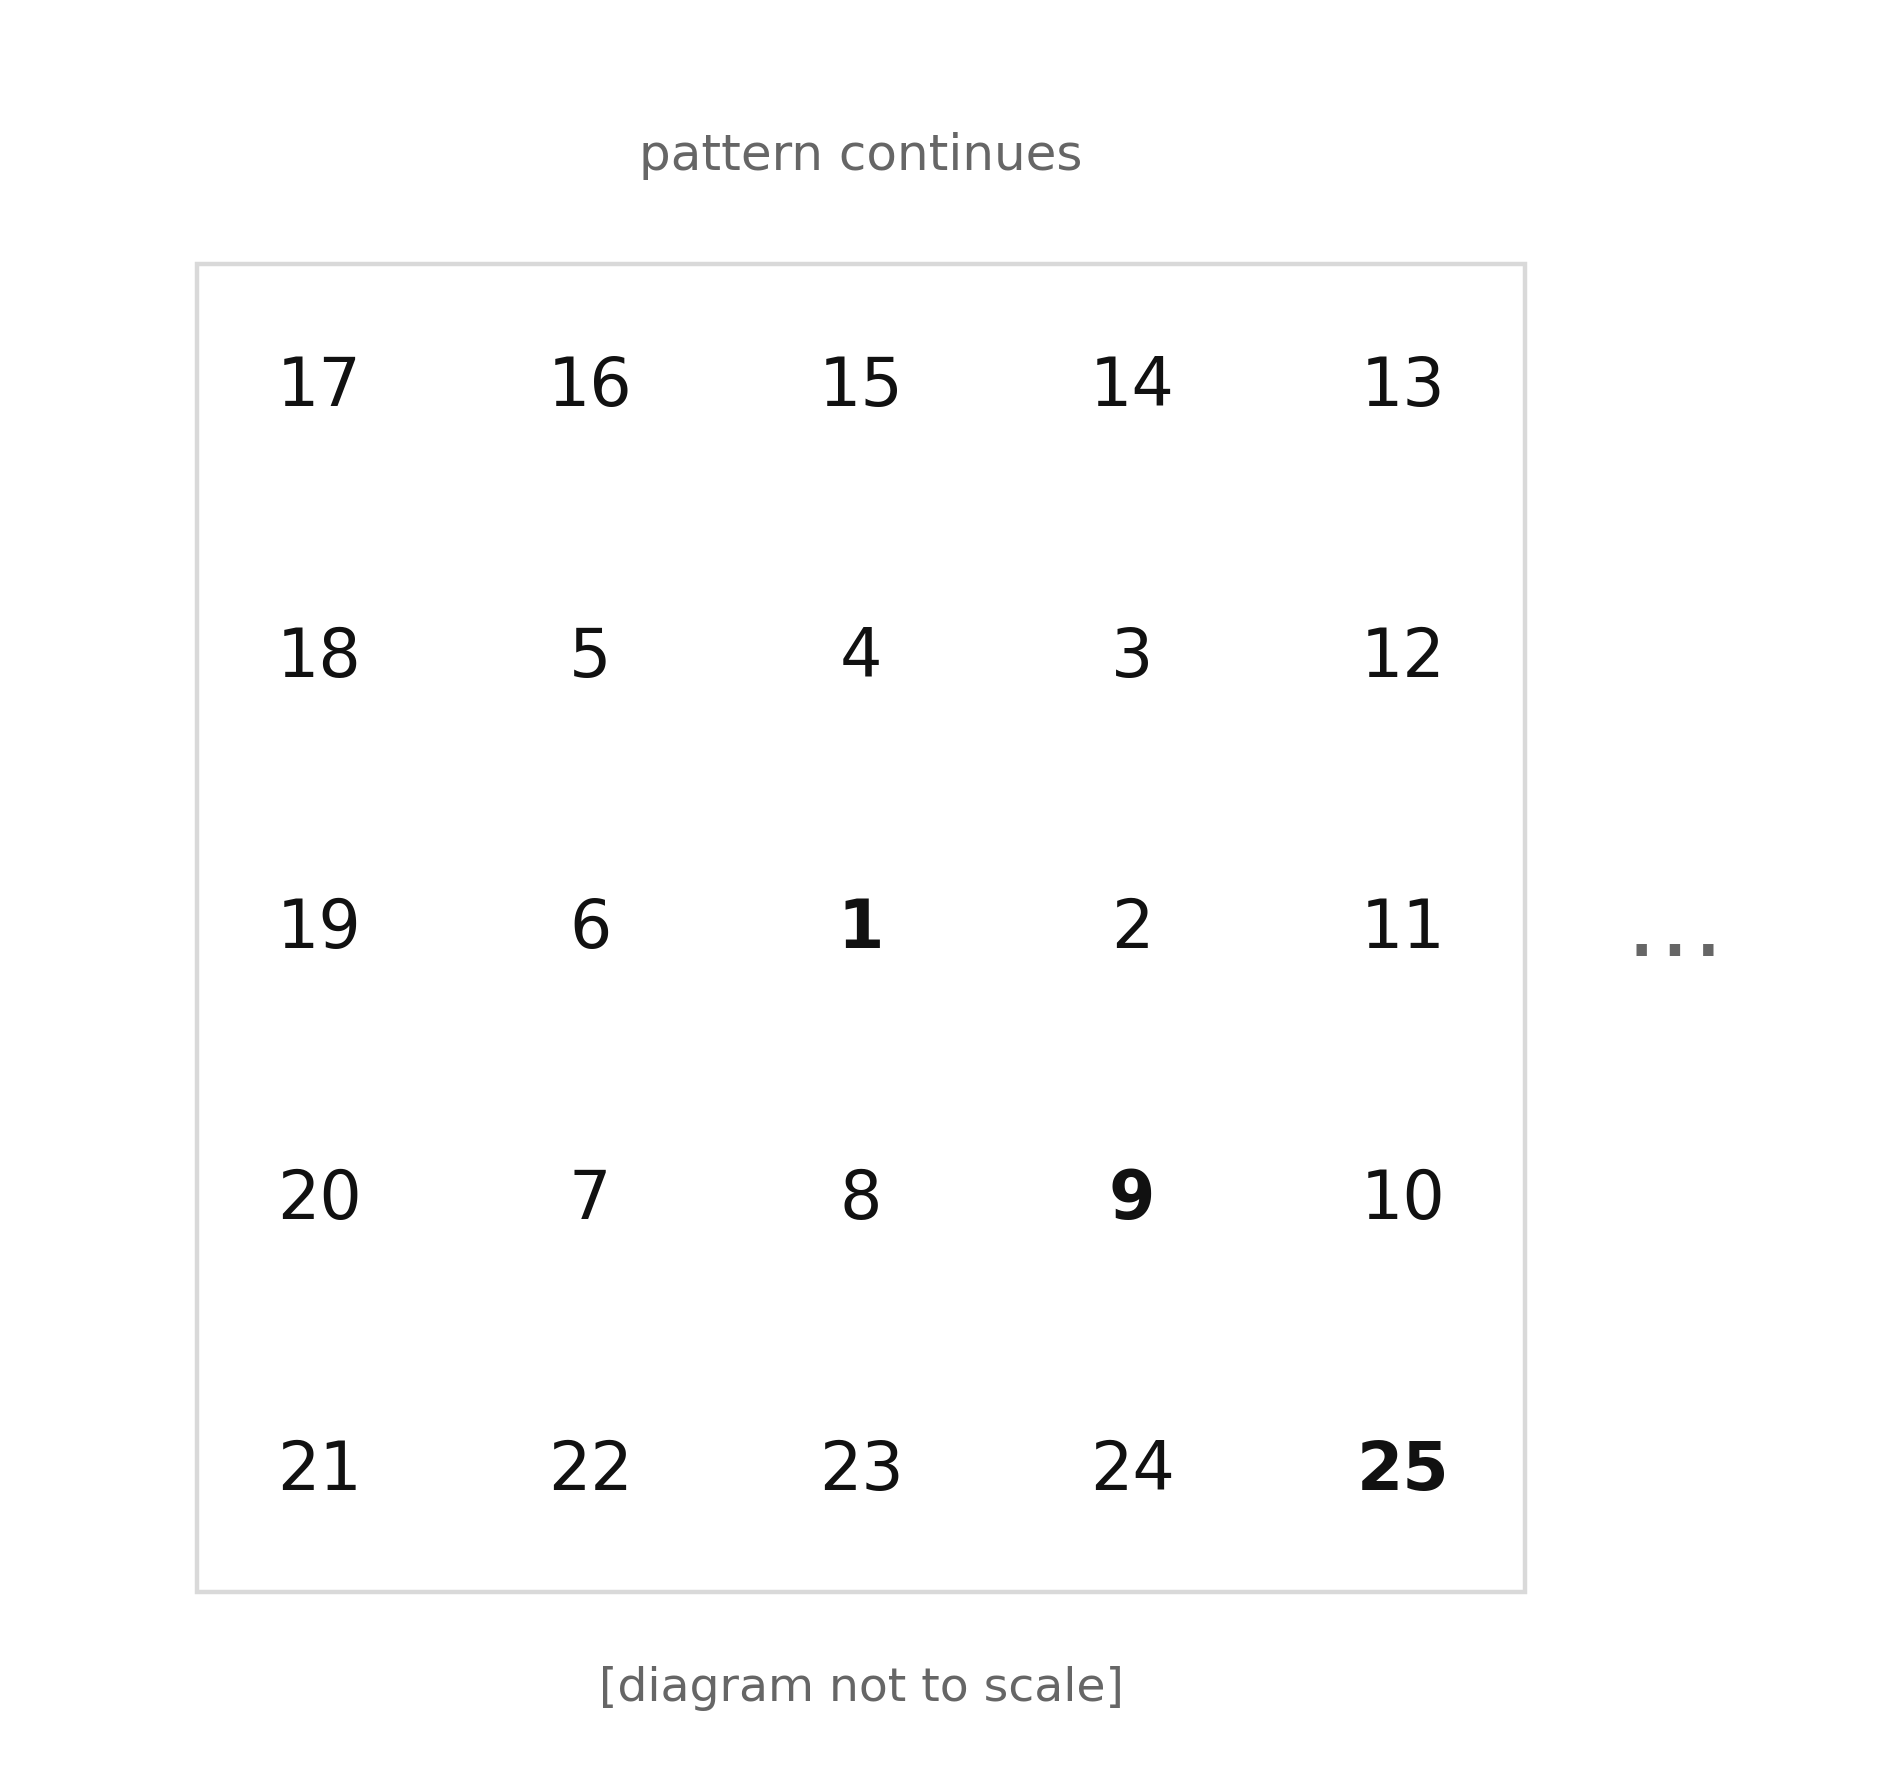
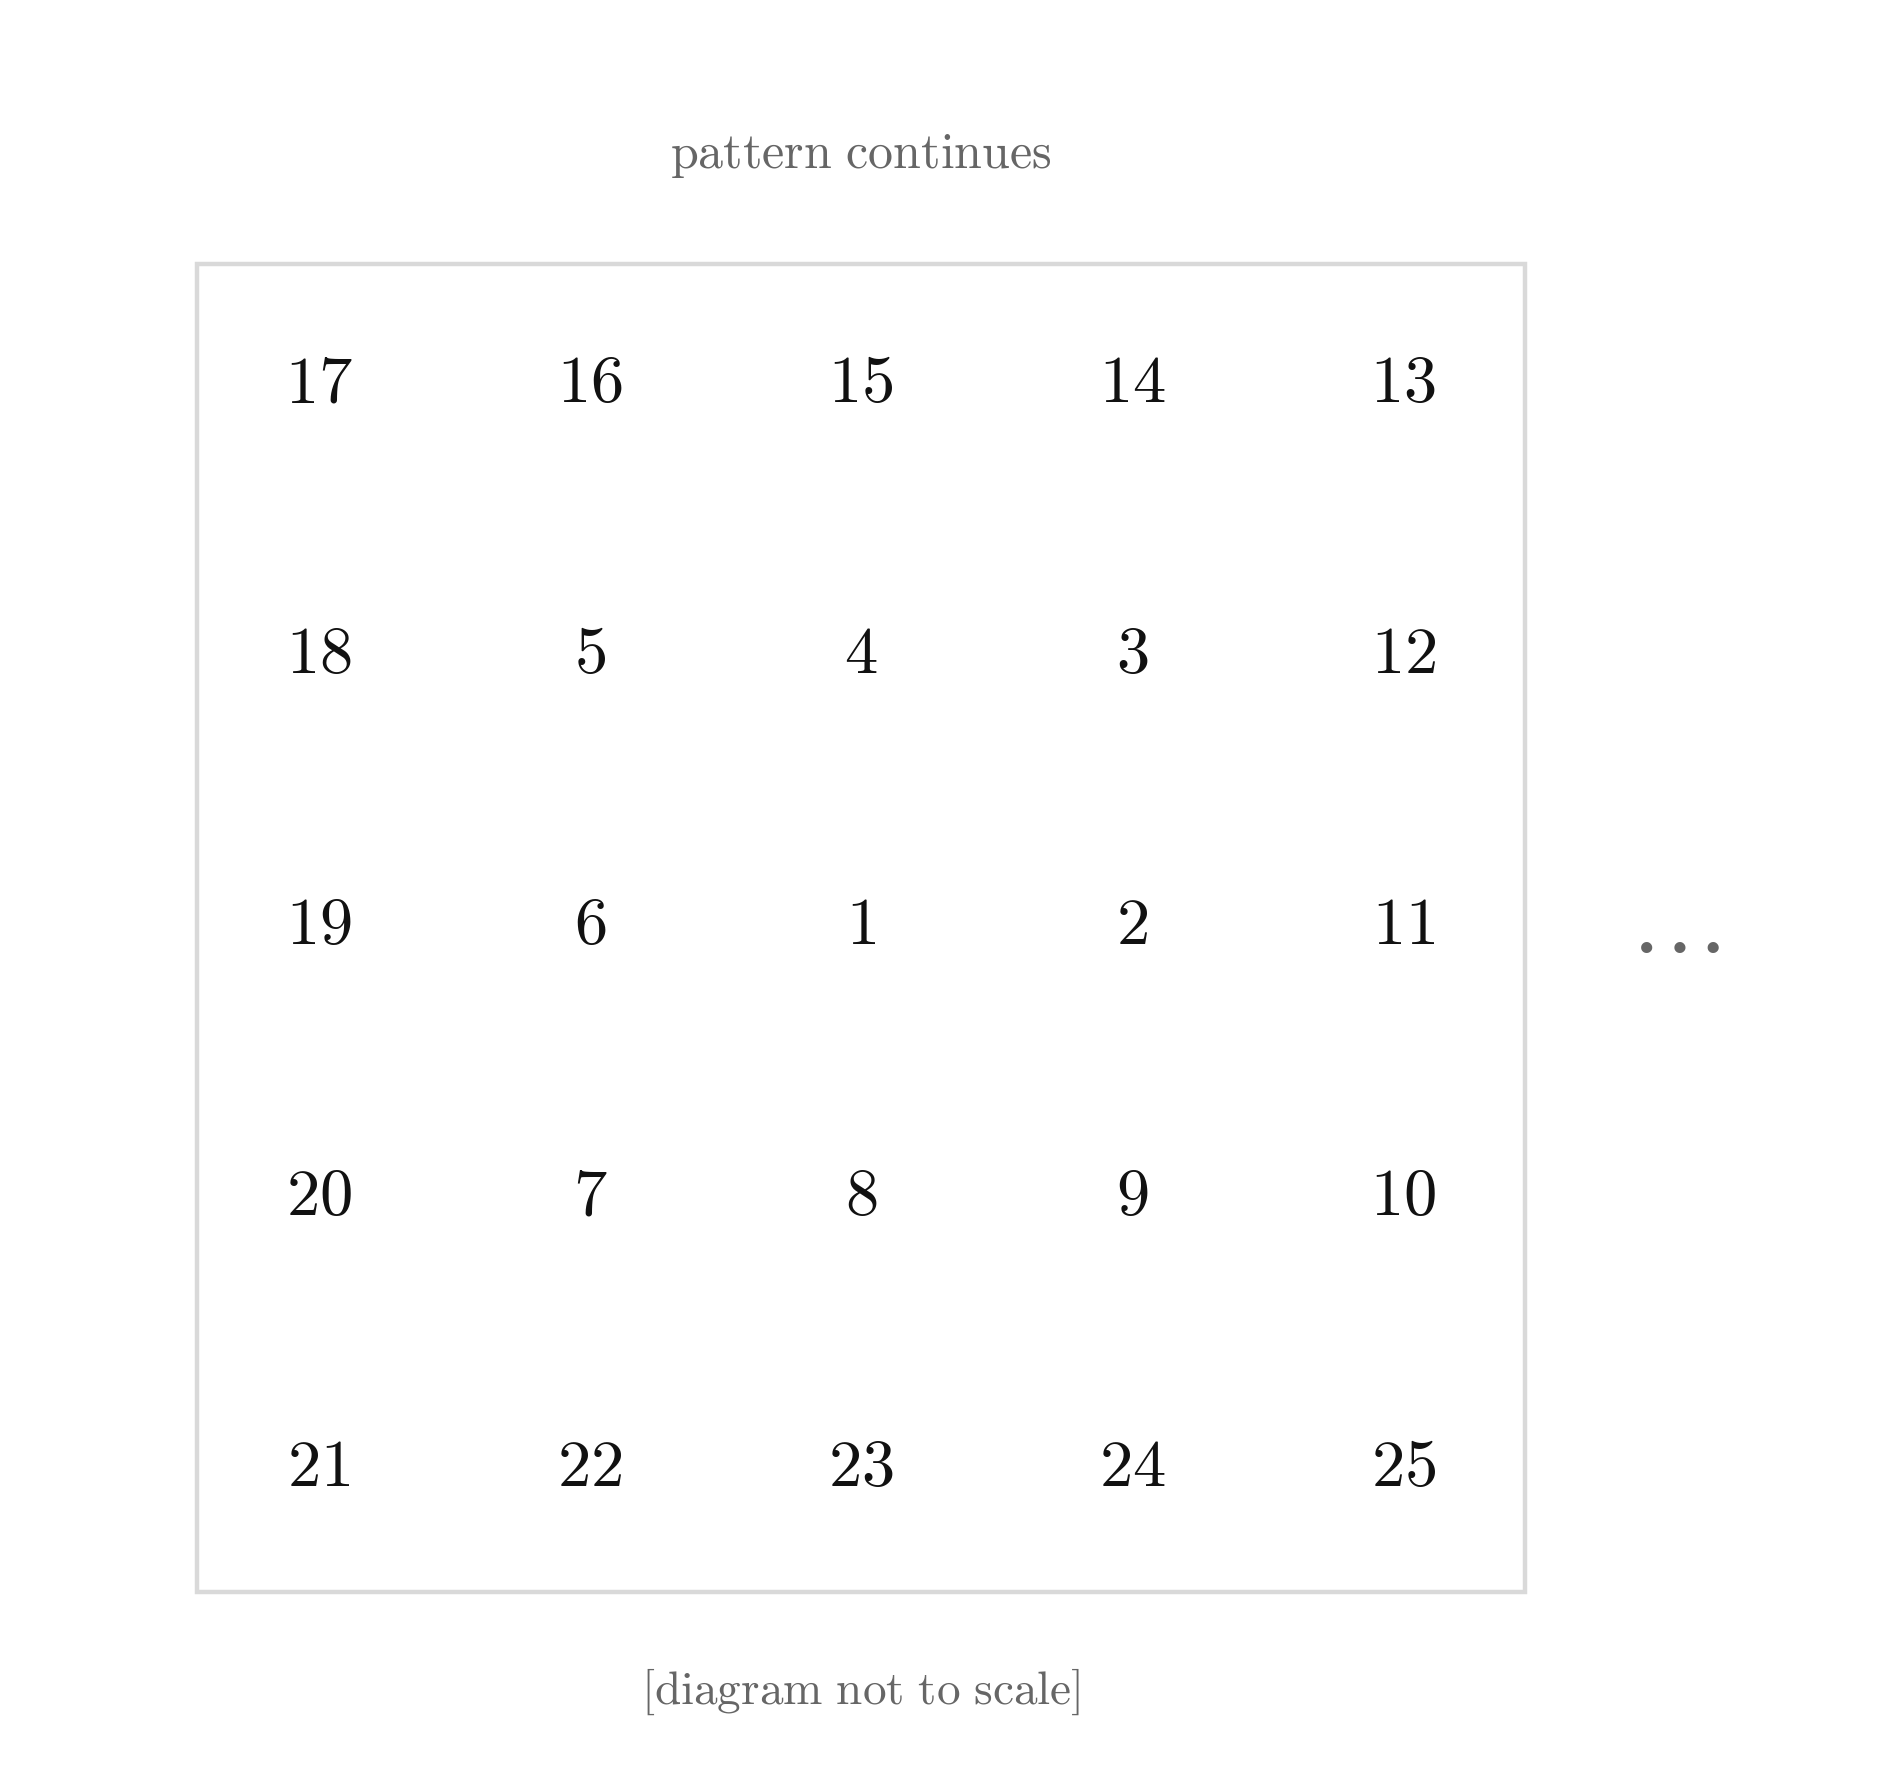
Tighten Math 1 calibration diagram typography and Q5 labels.
Use Computer Modern mathtext to match KaTeX, give Q1 more space under the figure, and remove the redundant ratio labels from Q5.

diff --git a/math1-calibration-final/render_reference_diagrams.py b/math1-calibration-final/render_reference_diagrams.py
@@ -20,9 +20,13 @@ LIGHT = "#D9D9D9"
 DARK = "#858585"
 LW = 1.55
 
+# Match site KaTeX / MathJax look: Computer Modern via matplotlib mathtext.
 plt.rcParams.update(
     {
-        "font.family": "DejaVu Sans",
+        "font.family": "serif",
+        "font.serif": ["STIXGeneral", "cmr10", "DejaVu Serif", "Times New Roman"],
+        "mathtext.fontset": "cm",
+        "mathtext.default": "it",
         "font.size": 11,
         "text.color": INK,
         "axes.edgecolor": INK,
@@ -40,8 +44,30 @@ def canvas(xlim, ylim, aspect="equal", figsize=(7.0, 4.5)):
     return fig, ax
 
 
+def math_label(ax, x, y, text, *, fontsize=11, color=INK, ha="center", va="center", rotation=0):
+    """Render a label in Computer Modern (KaTeX-style) mathtext."""
+    ax.text(
+        x,
+        y,
+        text,
+        ha=ha,
+        va=va,
+        fontsize=fontsize,
+        color=color,
+        rotation=rotation,
+    )
+
+
 def caption(ax, x, y):
-    ax.text(x, y, "[diagram not to scale]", ha="center", va="top", fontsize=8.5, color=MID)
+    ax.text(
+        x,
+        y,
+        r"$\mathrm{[diagram\ not\ to\ scale]}$",
+        ha="center",
+        va="top",
+        fontsize=8.5,
+        color=MID,
+    )
 
 
 def save(fig, filename):
@@ -51,7 +77,8 @@ def save(fig, filename):
 
 
 def q01():
-    fig, ax = canvas((-1.8, 13.8), (-1.6, 13.5))
+    # Extra bottom room so the not-to-scale caption sits clearly below "12 cm".
+    fig, ax = canvas((-1.8, 13.8), (-3.2, 13.5))
     outer = [(0, 0), (12, 0), (12, 12), (0, 12)]
     inner = [(6, 0), (12, 6), (6, 12), (0, 6)]
     ax.add_patch(Polygon(outer, closed=True, fill=False, ec=INK, lw=LW))
@@ -62,18 +89,19 @@ def q01():
         "E": (6, -0.45), "F": (12.35, 6), "G": (6, 12.35), "H": (-0.4, 6),
     }
     for label, (x, y) in labels.items():
-        ax.text(x, y, label, ha="center", va="center")
+        math_label(ax, x, y, rf"${label}$")
     y = -0.92
     ax.plot([0, 12], [y, y], color=MID, lw=1.0)
     ax.plot([0, 0], [y - 0.25, y + 0.25], color=MID, lw=1.0)
     ax.plot([12, 12], [y - 0.25, y + 0.25], color=MID, lw=1.0)
-    ax.text(6, y - 0.15, "12 cm", ha="center", va="top")
-    caption(ax, 6, -1.45)
+    math_label(ax, 6, y - 0.15, r"$12\,\mathrm{cm}$", va="top")
+    caption(ax, 6, -2.75)
     save(fig, "q01-midpoint-incircle.png")
 
 
 def q05():
-    fig, ax = canvas((-0.35, 1.4), (-0.32, 1.28), figsize=(6.1, 5.2))
+    # Keep letter labels only; ratios live in the stem, not on the figure.
+    fig, ax = canvas((-0.35, 1.4), (-0.38, 1.28), figsize=(6.1, 5.2))
     A, B, C, D = (0, 0), (1, 0), (1, 1), (0, 1)
     P, Q, R = (1 / 3, 0), (1, 1 / 4), (1 / 2, 1)
     ax.add_patch(Rectangle(A, 1, 1, fill=False, ec=INK, lw=LW))
@@ -82,12 +110,8 @@ def q05():
         ("A", A, -0.08, -0.08), ("B", B, 0.08, -0.08), ("C", C, 0.08, 0.08),
         ("D", D, -0.08, 0.08), ("P", P, 0, -0.09), ("Q", Q, 0.09, 0), ("R", R, 0, 0.09),
     ]:
-        ax.text(x + dx, y + dy, label, ha="center", va="center")
-    ax.text(0.16, -0.18, "1 : 2", ha="center", va="center", fontsize=9)
-    ax.text(1.18, 0.12, "1 : 3", ha="center", va="center", rotation=90, fontsize=9)
-    ax.text(0.75, 1.17, "1 : 1", ha="center", va="center", fontsize=9)
-    ax.text(-0.18, 0.5, "1", rotation=90, ha="center", va="center")
-    caption(ax, 0.5, -0.27)
+        math_label(ax, x + dx, y + dy, rf"${label}$")
+    caption(ax, 0.5, -0.32)
     save(fig, "q05-square-points.png")
 
 
@@ -122,11 +146,13 @@ def q07():
     fig, ax = canvas((-3.0, 3.6), (-3.0, 3.25), figsize=(6.0, 5.5))
     positions = spiral_positions(25)
     for n, (x, y) in positions.items():
-        weight = "bold" if n in {1, 9, 25} else "normal"
-        ax.text(x, y, str(n), ha="center", va="center", fontsize=12, fontweight=weight)
+        if n in {1, 9, 25}:
+            math_label(ax, x, y, rf"$\mathbf{{{n}}}$", fontsize=12)
+        else:
+            math_label(ax, x, y, rf"$\mathrm{{{n}}}$", fontsize=12)
     ax.add_patch(Rectangle((-2.45, -2.45), 4.9, 4.9, fill=False, ec=LIGHT, lw=0.8))
-    ax.text(3.0, 0, "…", ha="center", va="center", fontsize=18, color=MID)
-    ax.text(0, 2.85, "pattern continues", ha="center", va="center", fontsize=9, color=MID)
+    math_label(ax, 3.0, 0, r"$\ldots$", fontsize=18, color=MID)
+    math_label(ax, 0, 2.85, r"$\mathrm{pattern\ continues}$", fontsize=9, color=MID)
     caption(ax, 0, -2.72)
     save(fig, "q07-number-spiral.png")
 
@@ -146,12 +172,12 @@ def q09():
     for label, pt, offset in [
         ("A", A, (-0.08, -0.13)), ("B", B, (0.09, 0.03)), ("C", C, (-0.08, 0.08)), ("T", T, (0.08, -0.12))
     ]:
-        ax.text(pt[0] + offset[0], pt[1] + offset[1], label, ha="center", va="center")
+        math_label(ax, pt[0] + offset[0], pt[1] + offset[1], rf"${label}$")
     # Matching length ticks on AB and AT.
     ax.plot([0.47, 0.51], [0.36, 0.29], color=INK, lw=LW)
     ax.plot([0.50, 0.50], [-0.045, 0.045], color=INK, lw=LW)
     ax.add_patch(Arc(T, 0.46, 0.46, angle=0, theta1=110, theta2=180, color=MID, lw=1.1))
-    ax.text(0.79, 0.18, "70°", fontsize=10)
+    math_label(ax, 0.79, 0.18, r"$70^\circ$", fontsize=10)
     caption(ax, 0.25, -0.31)
     save(fig, "q09-circle-tangent.png")
 
@@ -177,38 +203,38 @@ def q10():
     large = (5.6, 2.5)
     draw_gear(ax, small, 1.35, 18)
     draw_gear(ax, large, 2.25, 30)
-    ax.text(2.0, 2.5, "18", ha="center", va="center", fontsize=12)
-    ax.text(5.6, 2.5, "30", ha="center", va="center", fontsize=12)
-    ax.text(2.0, 0.75, "18 teeth", ha="center", va="top")
-    ax.text(5.6, -0.05, "30 teeth", ha="center", va="top")
+    math_label(ax, 2.0, 2.5, r"$\mathrm{18}$", fontsize=12)
+    math_label(ax, 5.6, 2.5, r"$\mathrm{30}$", fontsize=12)
+    math_label(ax, 2.0, 0.75, r"$\mathrm{18\ teeth}$", va="top")
+    math_label(ax, 5.6, -0.05, r"$\mathrm{30\ teeth}$", va="top")
     arrow = FancyArrowPatch(
         (1.1, 3.55), (2.85, 3.65), connectionstyle="arc3,rad=-0.45", arrowstyle="-|>",
         mutation_scale=12, color=MID, lw=1.2
     )
     ax.add_patch(arrow)
-    ax.text(1.9, 4.65, "25 revolutions in 12 s", ha="center", va="center", fontsize=10)
+    math_label(ax, 1.9, 4.65, r"$\mathrm{25\ revolutions\ in\ 12\ s}$", fontsize=10)
     caption(ax, 4.2, -0.52)
     save(fig, "q10-gears.png")
 
 
 def token(ax, x, y, label):
     ax.add_patch(Circle((x, y), 0.35, fc="white", ec=INK, lw=1.2))
-    ax.text(x, y, label, ha="center", va="center", fontweight="bold", fontsize=10)
+    math_label(ax, x, y, rf"$\mathrm{{{label}}}$", fontsize=10)
 
 
 def q11():
     fig, ax = canvas((-0.4, 10.6), (-0.8, 4.8), figsize=(7.4, 4.7))
     ax.add_patch(Rectangle((0.3, 0.4), 3.7, 2.8, fill=False, ec=INK, lw=LW))
     ax.add_patch(Rectangle((6.2, 0.4), 3.7, 2.8, fill=False, ec=INK, lw=LW))
-    ax.text(2.15, 3.55, "Bag A", ha="center", va="center")
-    ax.text(8.05, 3.55, "Bag B", ha="center", va="center")
+    math_label(ax, 2.15, 3.55, r"$\mathrm{Bag\ A}$")
+    math_label(ax, 8.05, 3.55, r"$\mathrm{Bag\ B}$")
     for x, label in zip((1.2, 2.15, 3.1), ("R", "R", "B")):
         token(ax, x, 1.75, label)
     for x, label in zip((7.1, 8.05, 9.0), ("R", "B", "B")):
         token(ax, x, 1.75, label)
     ax.add_patch(FancyArrowPatch((4.25, 2.3), (5.95, 2.3), arrowstyle="-|>", mutation_scale=13, color=INK, lw=1.2))
-    ax.text(5.1, 2.62, "one counter", ha="center", va="bottom", fontsize=9)
-    ax.text(5.1, 0.0, "R = red      B = blue", ha="center", va="center", fontsize=9, color=MID)
+    math_label(ax, 5.1, 2.62, r"$\mathrm{one\ counter}$", fontsize=9, va="bottom")
+    math_label(ax, 5.1, 0.0, r"$\mathrm{R\ =\ red\qquad B\ =\ blue}$", fontsize=9, color=MID)
     caption(ax, 5.1, -0.45)
     save(fig, "q11-counter-transfer.png")
 
@@ -220,14 +246,14 @@ def q12():
     for centre in centres:
         ax.add_patch(Circle(centre, r, fill=False, ec=INK, lw=LW))
         ax.plot([centre[0], centre[0]], [centre[1], centre[1] + r], color=MID, lw=1.0, ls="--")
-        ax.text(centre[0] + 0.1, centre[1] + 0.85, "r", ha="left", va="center", fontsize=10)
+        math_label(ax, centre[0] + 0.1, centre[1] + 0.85, r"$r$", fontsize=10, ha="left")
         ax.plot(centre[0], centre[1], marker="o", ms=2.8, color=INK)
     square = [(2.5 + r * math.cos(math.radians(a)), 2.3 + r * math.sin(math.radians(a))) for a in (45, 135, 225, 315)]
     hexagon = [(7.5 + r * math.cos(math.radians(a)), 2.3 + r * math.sin(math.radians(a))) for a in range(0, 360, 60)]
     ax.add_patch(Polygon(square, closed=True, fill=False, ec=INK, lw=LW))
     ax.add_patch(Polygon(hexagon, closed=True, fill=False, ec=INK, lw=LW))
-    ax.text(2.5, 4.45, "square", ha="center", va="center")
-    ax.text(7.5, 4.45, "regular hexagon", ha="center", va="center")
+    math_label(ax, 2.5, 4.45, r"$\mathrm{square}$")
+    math_label(ax, 7.5, 4.45, r"$\mathrm{regular\ hexagon}$")
     caption(ax, 5.0, -0.35)
     save(fig, "q12-inscribed-polygons.png")
 
@@ -240,14 +266,14 @@ def q15():
         ax.add_patch(Circle((x, r), r, fill=False, ec=INK, lw=LW))
         ax.plot([x, x], [0, r], color=MID, lw=1.0, ls="--")
         if r == 1:
-            ax.text(x, 2.35, "1 cm", ha="center", va="bottom", fontsize=9.5)
+            math_label(ax, x, 2.35, r"$1\,\mathrm{cm}$", fontsize=9.5, va="bottom")
         else:
-            ax.text(x + 0.35, r / 2, f"{r} cm", ha="left", va="center", fontsize=9.5)
+            math_label(ax, x + 0.35, r / 2, rf"${r}\,\mathrm{{cm}}$", fontsize=9.5, ha="left")
         ax.plot(x, r, marker="o", ms=2.8, color=INK)
     ax.plot([-1.8, 25.7], [0, 0], color=INK, lw=LW)
     for x, label in zip(xs, ("P", "Q", "R")):
         ax.plot([x, x], [-0.14, 0.14], color=INK, lw=1.0)
-        ax.text(x, -0.55, label, ha="center", va="top")
+        math_label(ax, x, -0.55, rf"${label}$", va="top")
     caption(ax, 12.0, -1.35)
     save(fig, "q15-tangent-circles.png")
 
